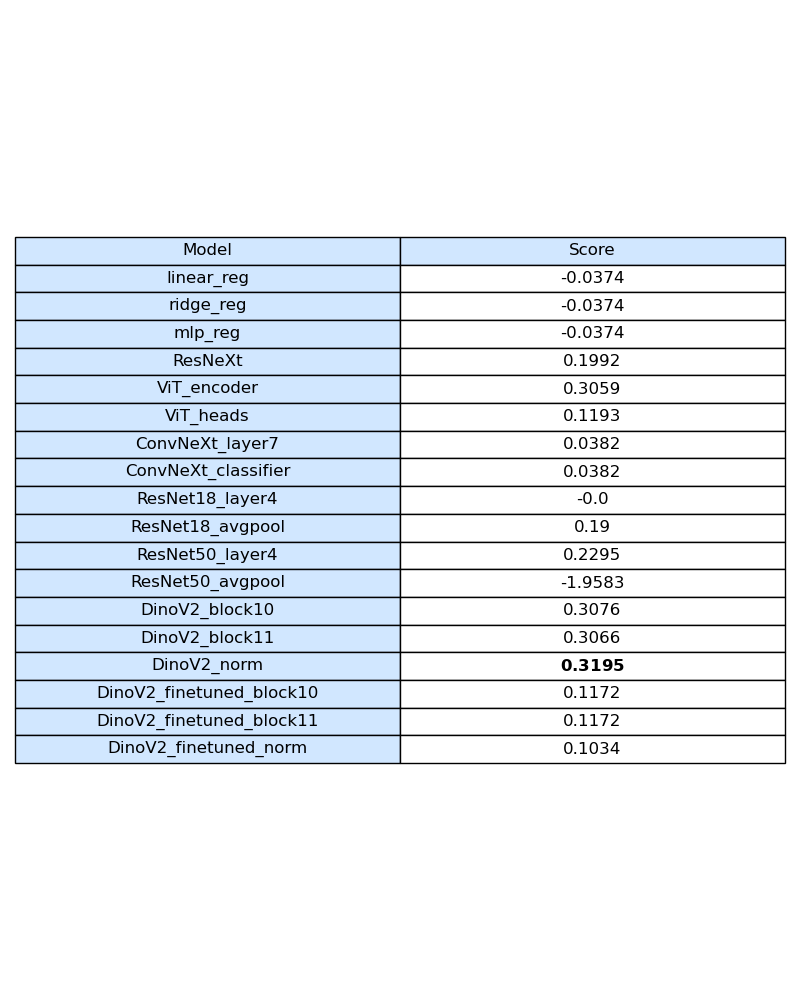
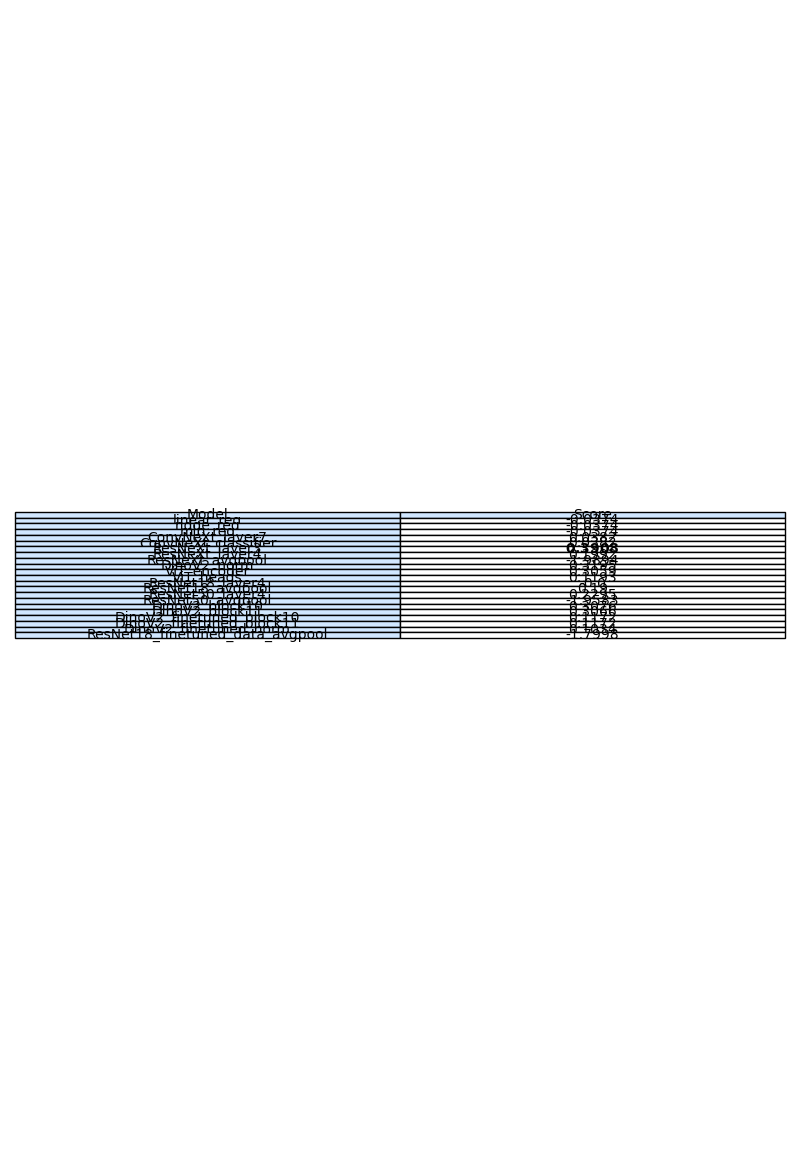
Changed the way we finetune models

diff --git a/src/tools/prober.py b/src/tools/prober.py
@@ -11,6 +11,44 @@ from models.linear_reg import linear_reg
 from models.ridge_reg import ridge_reg
 from models.mlp_reg import mlp_reg
 
+def score(model, layer_name, args):
+    with torch.no_grad():
+        train_data, val_data = get_data()
+        stimulus_train, _, spikes_train = train_data
+        stimulus_train = torch.from_numpy(stimulus_train)
+        spikes_train = torch.from_numpy(spikes_train)
+        stimulus_val, _, spikes_val = val_data
+        stimulus_val = torch.from_numpy(stimulus_val)
+        spikes_val = torch.from_numpy(spikes_val)
+
+        print('Computing activations...')
+        out = model(stimulus_val)
+        print(out.shape)
+        print(spikes_val.shape)
+
+        correlations = []
+        for i in range(spikes_val.shape[1]):
+            corr, _ = pearsonr(out[:, i], spikes_val[:, i])
+            correlations.append(corr)
+
+        # Compute mean R² score
+        r2 = r2_score(spikes_val, out)
+        name = f'{args.name}_finetuned_data_{layer_name}'
+        new_score = {name: r2}
+        save_folder = os.path.join(os.getcwd(), 'saved')
+        Plotter.update_r2_score_csv(new_score, f"{save_folder}/r2_scores.csv")
+        Plotter.save_r2_table(
+            path_csv=f"{save_folder}/r2_scores.csv",
+            path_png=f"{save_folder}/r2_scores.png"
+        )
+
+        Plotter.save_corr_plot(
+            data=correlations,
+            title=f'[{args.name}/{args.hook}/{args.probing}]\nCorrelation between predicted and actual spikes for layer {layer_name}',
+            path=f'{save_folder}/figures/{args.name}{"_finetuned" if args.finetune else ""}_{args.hook}_{args.probing}_correlation_{layer_name}.png'
+        )
+        print('DONE!')
+
 def linprob(model, args):
     """Linear probing of the model.
 
@@ -18,6 +56,75 @@ def linprob(model, args):
         model (IModel): the model.
         args (argparse.Namespace): the arguments passed to the script.
     """
+    if args.finetune:
+        _linprob_finetuned(model, args)
+    else:
+        _linprob(model, args)
+
+def _linprob_finetuned(model, args):
+    """
+    In this case, the finetuning is done after a given layer (in args). We thus need to probe
+    only the previous to last layer (last is MLP).
+    """
+    model.eval()
+    with torch.no_grad():
+        train_data, val_data = get_data()
+        stimulus_train, _, spikes_train = train_data
+        stimulus_train = torch.from_numpy(stimulus_train)
+        spikes_train = torch.from_numpy(spikes_train)
+        stimulus_val, _, spikes_val = val_data
+        stimulus_val = torch.from_numpy(stimulus_val)
+        spikes_val = torch.from_numpy(spikes_val)
+
+        print('Registering hooks...')
+        handles = model.register_hook(args.hook)
+        
+        model(stimulus_train)
+        activations = model.get_activations(args.hook)
+
+        print('\tLayer:', args.layer)
+        regression = fit(activations, spikes_train, method=args.probing)
+
+        # Test the regression on the validation set
+        print('Testing the regression...')
+        model.reset_activations()
+
+        model(stimulus_val)
+        activations = model.get_activations(args.hook)
+
+        ## Remove handles
+        for handle in handles:
+            handle.remove()
+        
+        print('\tLayer:', args.layer)
+        if isinstance(regression, tuple): # MLP returns both the model and the scaler
+            regression, scaler = regression
+            activations = scaler.transform(activations)
+        pred_activity = regression.predict(activations)
+        correlations = []
+        for i in range(spikes_val.shape[1]):
+            corr, _ = pearsonr(pred_activity[:, i], spikes_val[:, i])
+            correlations.append(corr)
+
+        # Compute mean R² score
+        save_folder = os.path.join(os.getcwd(), 'saved')
+        r2 = r2_score(spikes_val, pred_activity)
+        name = f'{args.name}_finetuned_task_{args.layer}'
+        new_score = {name: r2}
+        Plotter.update_r2_score_csv(new_score, f"{save_folder}/r2_scores.csv")
+        Plotter.save_r2_table(
+            path_csv=f"{save_folder}/r2_scores.csv",
+            path_png=f"{save_folder}/r2_scores.png"
+        )
+
+        Plotter.save_corr_plot(
+            data=correlations,
+            title=f'[{args.name}/{args.hook}/{args.probing}]\nCorrelation between predicted and actual spikes for layer {args.layer}',
+            path=f'{save_folder}/figures/{args.name}{"_finetuned" if args.finetune else ""}_{args.hook}_{args.probing}_correlation_{args.layer}.png'
+        )
+        print('Done!')
+
+def _linprob(model, args):
     model.eval()
     layer_regressions = dict()
 
@@ -46,7 +153,7 @@ def linprob(model, args):
         # Fit the regression on the activations of the training set
         print('Computing activations...')
         save_folder = os.path.join(os.getcwd(), 'saved')
-        if args.saved and not args.finetune and os.path.exists(f'{save_folder}/activations/{args.name}_{args.hook}_train_activations.pt'):
+        if args.saved and os.path.exists(f'{save_folder}/activations/{args.name}_{args.hook}_train_activations.pt'):
             print('Loading saved training activations...')
             activations = torch.load(f'{save_folder}/activations/{args.name}_{args.hook}_train_activations.pt', weights_only=False)
         else:
@@ -63,7 +170,7 @@ def linprob(model, args):
         print('Testing the regression...')
         model.reset_activations()
 
-        if args.saved and not args.finetune and os.path.exists(f'{save_folder}/activations/{args.name}_{args.hook}_valid_activations.pt'):
+        if args.saved and os.path.exists(f'{save_folder}/activations/{args.name}_{args.hook}_valid_activations.pt'):
             print('Loading saved validation activations...')
             activations = torch.load(f'{save_folder}/activations/{args.name}_{args.hook}_valid_activations.pt', weights_only=False)
         else:
@@ -88,7 +195,7 @@ def linprob(model, args):
 
             # Compute mean R² score
             r2 = r2_score(spikes_val, pred_activity)
-            name = f'{args.name}_{layer_name}' if not args.finetune else f'{args.name}_finetuned_{layer_name}'
+            name = f'{args.name}_pretrained_{layer_name}'
             new_score = {name: r2}
             Plotter.update_r2_score_csv(new_score, f"{save_folder}/r2_scores.csv")
             Plotter.save_r2_table(

diff --git a/src/models/IModel.py b/src/models/IModel.py
@@ -1,5 +1,6 @@
 from abc import ABC, abstractmethod
 
+import torch
 from torch import nn
 from sklearn.decomposition import PCA
 
@@ -13,7 +14,6 @@ class IModel(ABC, nn.Module):
         super().__init__()
         self.PCs = dict()
         self.ACTs = dict()
-        self.fc = None
 
     def forward(self, images):
         return self.model(images)
@@ -63,6 +63,12 @@ class IModel(ABC, nn.Module):
                 handle = layer.register_forward_hook(lambda m, i, o, n=name: self._get_PCs_hook(m, i, o, n))
             handles.append(handle)
         return handles
+    
+    def change_head(self, layer, num_classes):
+        """
+        Sets a final head (classification or regression) after the indicated layer.
+        """
+        return ModifiedModel(self.model, layer, num_classes)
 
     @abstractmethod
     def get_layers(self):
@@ -70,11 +76,44 @@ class IModel(ABC, nn.Module):
         Returns the layers of the model.
         By default, it returns the last layer of the model.
         """
-        pass
-
-    @abstractmethod
-    def replace_head(self, num_classes):
-        """
-        Replaces the head of the model.
-        """
         raise NotImplementedError("This method should be overridden by subclasses.")
+
+class ModifiedModel(IModel):
+    def __init__(self, base_model, insert_after, num_classes):
+        super().__init__()
+        self.base_model = base_model
+        self.insert_after = insert_after
+        self.num_classes = num_classes
+
+        # Extract layers up to the insertion point
+        self.features = nn.Sequential()
+        for name, module in base_model.named_children():
+            self.features.add_module(name, module)
+            if name == insert_after:
+                self.layer = (name, module)
+                break
+
+        # Determine input dim for new head
+        dummy_input = torch.randn(1, 3, 224, 224)
+        with torch.no_grad():
+            out = self._forward_features(dummy_input)
+        head_in_features = out.shape[1]
+
+        # Define new head (classification or regression)
+        self.fc = nn.Sequential(
+            nn.Flatten(),
+            nn.Linear(head_in_features, num_classes)
+        )
+
+    def _forward_features(self, x):
+        for name, module in self.features.named_children():
+            x = module(x)
+        return x
+
+    def forward(self, x):
+        x = self._forward_features(x)
+        x = self.fc(x)
+        return x
+    
+    def get_layers(self):
+        return self.layer

diff --git a/src/main.py b/src/main.py
@@ -5,7 +5,7 @@ import torch
 from utils.utils import download_data
 from models.build import make_model
 from tools.trainer import finetune
-from tools.prober import linprob
+from tools.prober import linprob, score
 
 def main(args):
     download_data('./data/') # Download the data if not already done
@@ -13,21 +13,26 @@ def main(args):
     print(model)
     if args.finetune:
         # TODO finetuning shouldn't use the same validation dataset as the probing!!
-        finetune(model, args)
+        model = finetune(model, args)
         model.load_state_dict(torch.load(f'./saved/models/{args.name}_best_model.pth'))
         model.to('cpu') # Make sure the model is back on CPU
 
-    linprob(model, args)
+    if args.driven == 'task':
+        linprob(model, args)
+    elif args.driven == 'data':
+        # No need to do probing, just pass through the model
+        score(model, args.layer, args)
 
 if __name__ == '__main__':
     parser = argparse.ArgumentParser()
     parser.add_argument('-n', '--name', default='ResNet18', help='Model name', type=str)
-    parser.add_argument('-d', '--driven', default='task', help='Task- or data-driven model', type=str)
+    parser.add_argument('-d', '--driven', default='data', help='Data- or task-driven model', type=str)
     parser.add_argument('-k', '--hook', default='all', help='Hook name', type=str)
-    parser.add_argument('-p', '--probing', default='linear', help='Probing method', type=str)
+    parser.add_argument('-p', '--probing', default='linear', help='Probing method (only for task-driven)', type=str)
+    parser.add_argument('-l', '--layer', default='avgpool', help='Layer name (only for finetuning)', type=str)
     parser.add_argument('-o', '--optimizer', default='adamw', help='Optimizer name', type=str)
     parser.add_argument('-f', '--finetune', action='store_true', help='Whether to finetune the model')
-    parser.add_argument('--lr', default=1e-3, help='Learning rate for finetuning', type=float)
+    parser.add_argument('--lr', default=1e-5, help='Learning rate for finetuning', type=float)
     parser.add_argument('--epochs', default=10, help='Number of epochs for finetuning', type=int)
     parser.add_argument('--saved', action='store_true', help='Use saved activations, if any. Default is to not use them')
     args = parser.parse_args()

diff --git a/src/tools/trainer.py b/src/tools/trainer.py
@@ -7,9 +7,9 @@ from tools.optimizer import make_optimizer
 
 def finetune(model, args):
     trainloader, valloader, num_classes = make_dataloader(16, args.driven)
-    # Modify last layer
-    model.replace_head(num_classes)
-    optim = make_optimizer(args.optimizer, model, args.lr, 1e-4)
+    # Cut and set head after specific layer
+    model = model.change_head(args.layer, num_classes)
+    optim = make_optimizer(args.optimizer, model, args.lr, 1e-2)
 
     device = torch.device("cpu")
     if torch.cuda.is_available():
@@ -17,15 +17,17 @@ def finetune(model, args):
         model = model.to(device)
 
     if args.driven == 'task':
-        # Finetunes the model on doing object (image) classification
+        # Finetunes the model by object (image) classification
         criterion = nn.CrossEntropyLoss()
         do_train(model, trainloader, valloader, optim, criterion, args.epochs, device, args)
     elif args.driven == 'data':
-        # TODO ASK I don't really know how to do that... Maybe we replace the final layer with a
-        # regression head, and finetune the model on the neural data that way?
-        raise NotImplementedError("Finetuning on neural data is not implemented yet.")
+        # Finetunes the model by data (neural) regression
+        criterion = nn.MSELoss()
+        do_train(model, trainloader, valloader, optim, criterion, args.epochs, device, args)
     else:
         raise ValueError(f"Unknown driven argument: {args.driven}. Supported methods are 'task' and 'data'.")
+    
+    return model
 
 def do_train(model, train_loader, val_loader, optim, criterion, epochs, device, args):
     best_valid_loss = float('inf')

diff --git a/src/tools/optimizer.py b/src/tools/optimizer.py
@@ -8,8 +8,8 @@ def make_optimizer(name, model, lr, weight_decay):
 
     if name == 'adamw':
         return torch.optim.AdamW([
-            {'params': base_params, 'lr': 0.1 * lr},
-            {'params': classif_params, 'lr': lr}
+            {'params': base_params, 'lr': 0.1 * lr, 'weight_decay': weight_decay},
+            {'params': classif_params, 'lr': lr, 'weight_decay': 10 * weight_decay}
         ], weight_decay=weight_decay)
     elif name == 'sgd':
         return torch.optim.SGD([

diff --git a/src/models/dinov2.py b/src/models/dinov2.py
@@ -18,7 +18,3 @@ class DinoV2(IModel):
         module_block10 = self.model.get_submodule("blocks.10")
         module_block11 = self.model.get_submodule("blocks.11")
         return [('block10', module_block10), ('block11', module_block11), ('norm', module_norm)]
-    
-    def replace_head(self, num_classes):
-        self.fc = nn.Linear(768, num_classes)
-        self.model.head = self.fc

diff --git a/src/models/vit.py b/src/models/vit.py
@@ -17,8 +17,3 @@ class ViT(IModel):
         module_encoder = self.model.get_submodule("encoder")
         module_heads = self.model.get_submodule("heads")
         return [('encoder', module_encoder), ('heads', module_heads)]
-    
-    def replace_head(self, num_classes):
-        # TODO
-        self.fc = nn.Linear(self.model.fc.in_features, num_classes)
-        self.model.fc = self.fc

diff --git a/src/models/resnet50.py b/src/models/resnet50.py
@@ -17,7 +17,3 @@ class ResNet50(IModel):
         module_layer4 = self.model.get_submodule("layer4")
         module_avgpool = self.model.get_submodule("avgpool")
         return [('layer4', module_layer4), ('avgpool', module_avgpool)]
-    
-    def replace_head(self, num_classes):
-        self.fc = nn.Linear(self.model.fc.in_features, num_classes)
-        self.model.fc = self.fc

diff --git a/src/models/resnet18.py b/src/models/resnet18.py
@@ -17,7 +17,3 @@ class ResNet18(IModel):
         module_layer4 = self.model.get_submodule("layer4")
         module_avgpool = self.model.get_submodule("avgpool")
         return [('layer4', module_layer4), ('avgpool', module_avgpool)]
-
-    def replace_head(self, num_classes):
-        self.fc = nn.Linear(self.model.fc.in_features, num_classes)
-        self.model.fc = self.fc

diff --git a/src/tools/dataloader.py b/src/tools/dataloader.py
@@ -37,7 +37,7 @@ def make_dataloader(batch_size, driven='task'):
             torch.from_numpy(val_data[0]).float(),
             torch.from_numpy(val_data[2]).float()
         )
-        num_classes = 1 # only one output for regression
+        num_classes = 168 # one output per neuron
     else:
         raise ValueError("driven must be either 'task' or 'data'")
     

diff --git a/src/models/resnext.py b/src/models/resnext.py
@@ -19,10 +19,4 @@ class ResNeXt(IModel):
         avgpool = self.model.get_submodule("avgpool")
         
         return [('layer3', layer3), ('layer4', layer4), ('avgpool', avgpool)]
-    
-    def replace_head(self, num_classes):
-        # TODO
-        self.fc = nn.Linear(self.model.fc.in_features, num_classes)
-        self.model.fc = self.fc
-        
         

diff --git a/src/models/convnext.py b/src/models/convnext.py
@@ -18,8 +18,3 @@ class ConvNeXt(IModel):
         print(layer7)
         classif = self.model.get_submodule("classifier")
         return [('layer7', layer7), ('classifier', classif)]
-    
-    def replace_head(self, num_classes):
-        # TODO
-        self.fc = nn.Linear(self.model.classifier.in_features, num_classes)
-        self.model.classifier = self.fc
